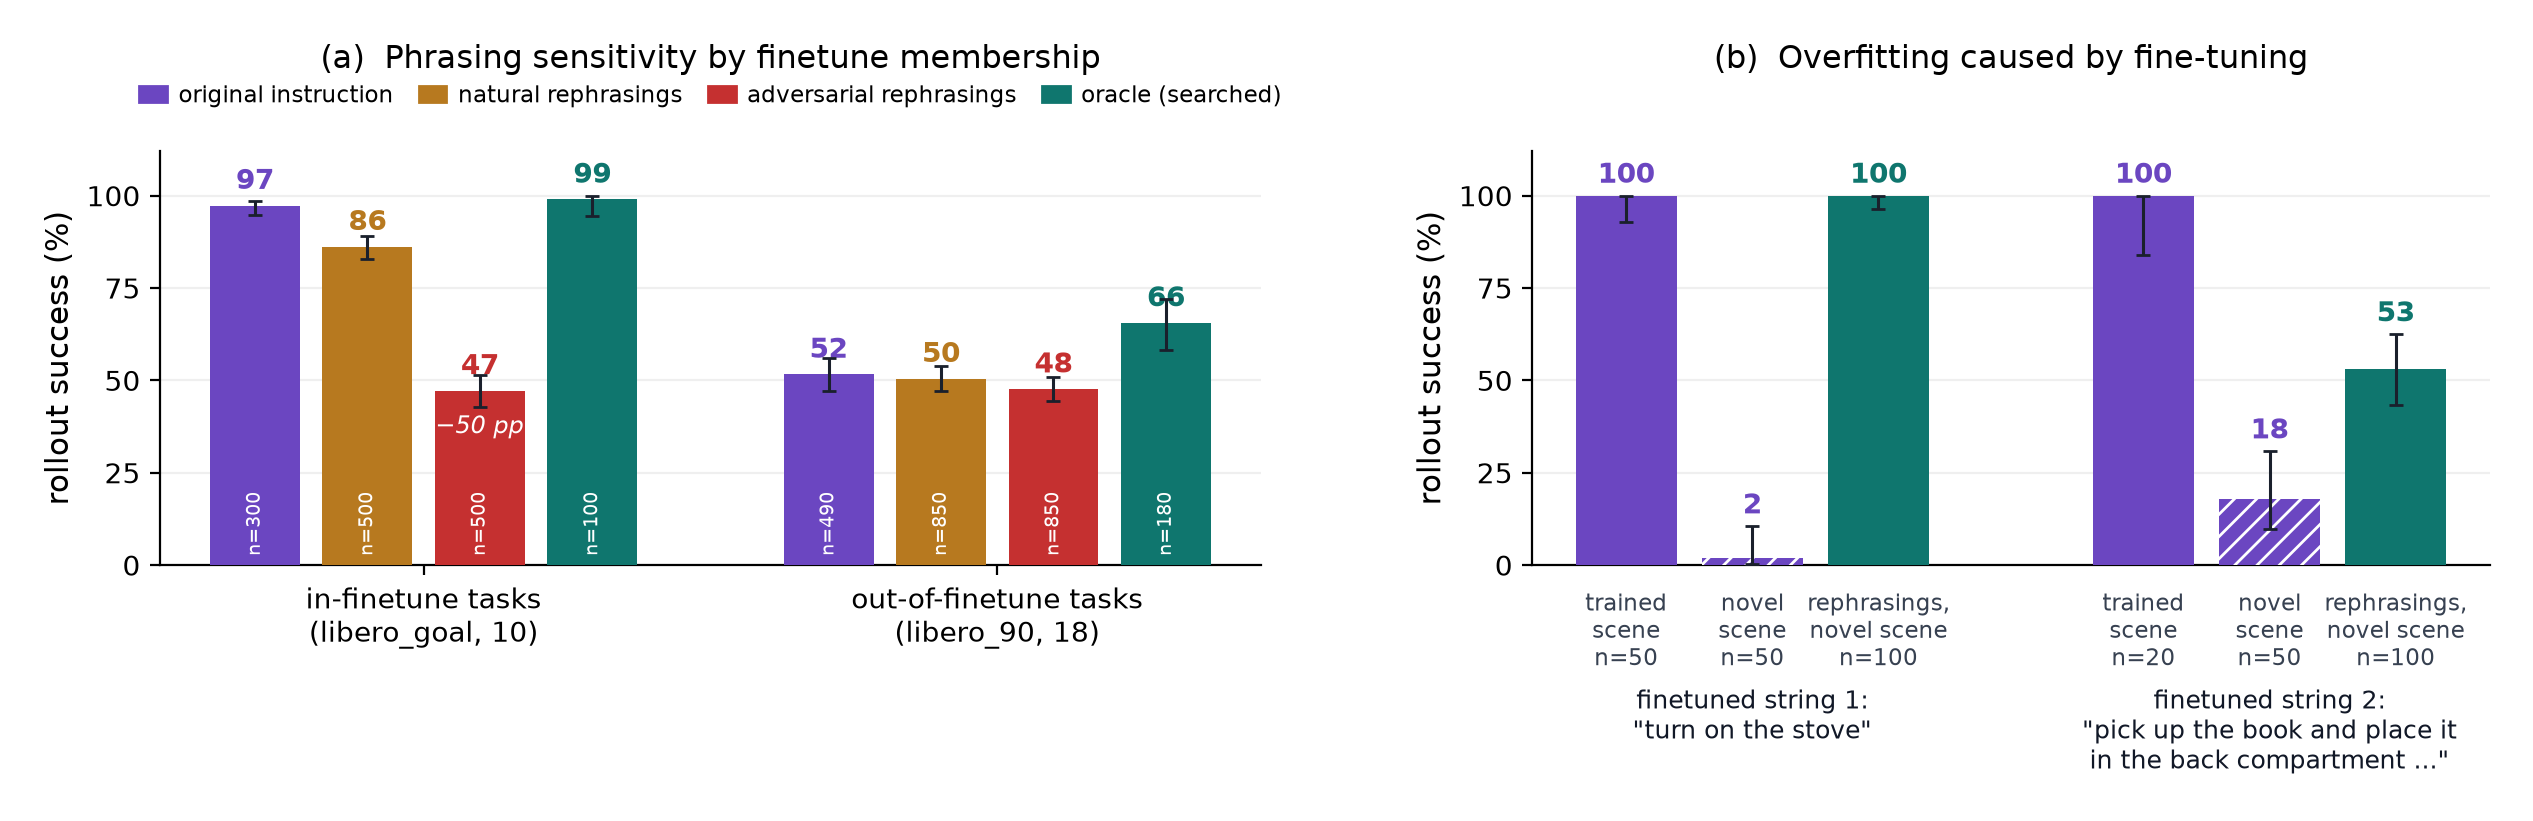
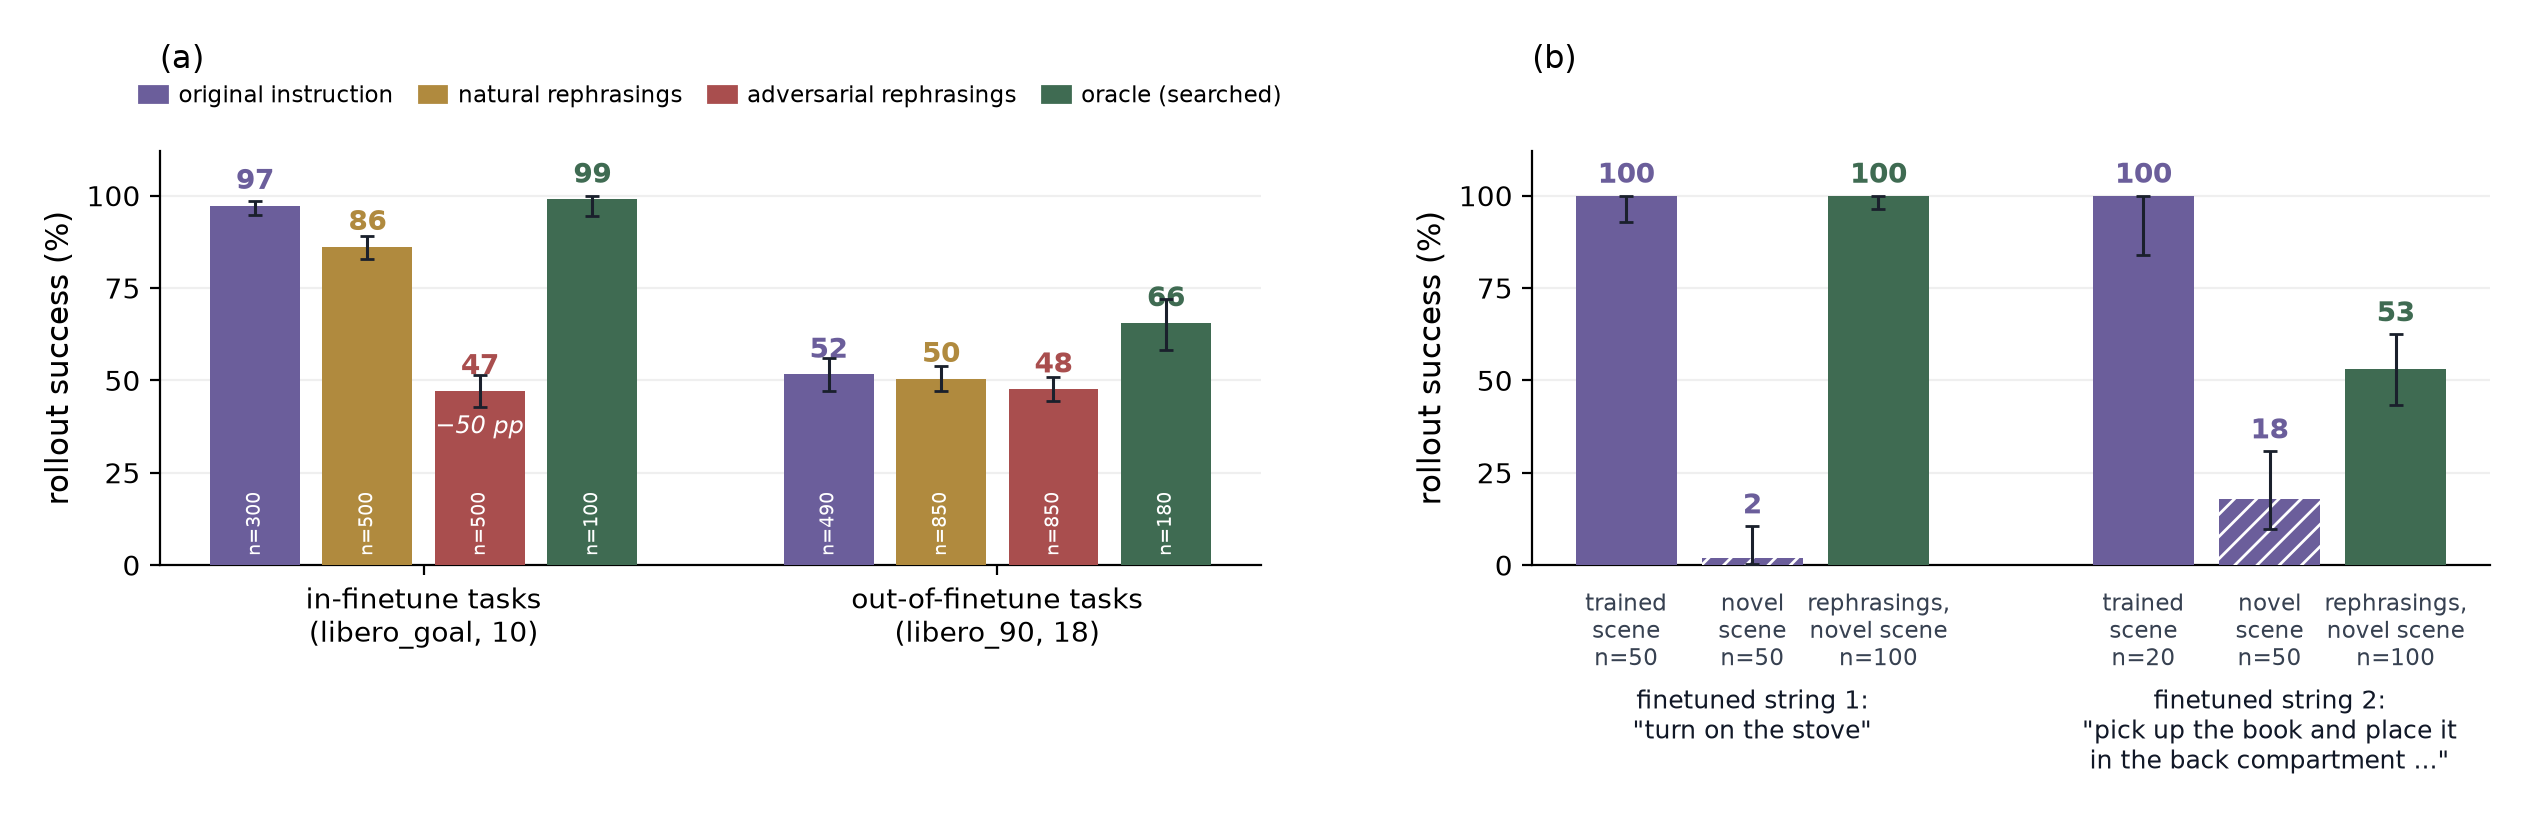
Sensitivity charts rebuilt (pi0 on current sealed data, shared muted palette, no titles) + compact single-row dashboard with inline ID/OOD flanks

diff --git a/scripts/make_rules_dashboard_compact.py b/scripts/make_rules_dashboard_compact.py
@@ -1,0 +1,122 @@
+#!/usr/bin/env python3
+"""results/charts/rules_dashboard_compact.png — single-row dashboard.
+
+One row of three condition panels (Adversarial / Human-Generated Naturals /
+LLM-Generated Naturals). Per applier: no-rules scaffold + the three diet
+cells (mean over the three rulebook draws), each pooled bar flanked by thin
+semi-transparent strata bars — in-distribution (left, 5 tasks) and
+out-of-distribution (right, 7 tasks) — the input-condition-chart idiom.
+The per-draw breakdown moves to an appendix grid. No in-image title.
+"""
+import json
+import pathlib
+
+import matplotlib
+matplotlib.use("Agg")
+import matplotlib.pyplot as plt
+
+R = pathlib.Path(__file__).resolve().parents[1]
+r1 = json.loads((R / "results/analysis/r1_cells.json").read_text())
+rep = json.loads((R / "results/analysis/a36_cells.json").read_text())
+hum = json.loads((R / "results/analysis/a39_human_cells.json").read_text())
+
+APS = ["claude", "gemini", "qwen"]
+DIETS = [("s", "out-of-\nfinetune"), ("b", "both"), ("t", "in-\nfinetune")]
+CONDS = [("adv", "Adversarial"), ("hum", "Human-Generated Naturals"),
+         ("nat", "LLM-Generated Naturals")]
+HUM_BOOK = {("s", 1): "s", ("s", 2): "s2", ("s", 3): "s3",
+            ("b", 1): "b", ("b", 2): "b2", ("b", 3): "b3",
+            ("t", 1): "t", ("t", 2): "t2", ("t", 3): "t3"}
+
+C_BASE, C_RULES = "#D9DEE6", "#3F6B52"
+EDGE, INK, RED = "#6E7B8B", "#2d3748", "#C0504D"
+NO_REPH = {"nat": r1["noreph|nat"]["pooled"], "adv": 24.5,
+           "hum": hum["raw_human"]["pooled"]}
+
+
+def rec(cond, diet, ap, dr):
+    if cond == "hum":
+        return hum.get(f"{HUM_BOOK[(diet, dr)]}|{ap}")
+    if dr == 1:
+        return r1.get(f"r1{diet}|{ap}|{cond}")
+    r = rep.get(f"{diet}{dr}|{ap}|{cond}")
+    return r if (r and r.get("legs") == 12) else None
+
+
+def cell(cond, diet, ap, st="pooled"):
+    vals = [rec(cond, diet, ap, dr)[st] for dr in (1, 2, 3)
+            if rec(cond, diet, ap, dr) and rec(cond, diet, ap, dr).get(st) is not None]
+    return sum(vals) / len(vals) if vals else None
+
+
+def scaffold(cond, ap, st="pooled"):
+    r = hum.get(f"sc|{ap}") if cond == "hum" else r1.get(f"sc|{ap}|{cond}")
+    return r.get(st) if r else None
+
+
+fig, axes = plt.subplots(1, 3, figsize=(16.2, 4.9), sharey=True)
+
+for ax, (cond, cname) in zip(axes, CONDS):
+    x, ticks, tlabels, gticks = 0.0, [], [], []
+    for ap in APS:
+        gxs = []
+        arms = [("sc", "no\nrules", C_BASE)] + \
+               [(d, dl, C_RULES) for d, dl in DIETS]
+        for key, dlabel, col in arms:
+            if key == "sc":
+                pool, iv, oov = (scaffold(cond, ap, s) for s in ("pooled", "iv", "oov"))
+            else:
+                pool, iv, oov = (cell(cond, key, ap, s) for s in ("pooled", "iv", "oov"))
+            if pool is not None:
+                if iv is not None:
+                    ax.bar(x - 0.185, iv, 0.30, color=col, alpha=0.42, zorder=1,
+                           edgecolor="none")
+                    ax.text(x - 0.29, iv + 0.7, f"{iv:.0f}", ha="center",
+                            fontsize=5.0, color="#71808f", zorder=3)
+                if oov is not None:
+                    ax.bar(x + 0.185, oov, 0.30, color=col, alpha=0.42, zorder=1,
+                           edgecolor="none")
+                    ax.text(x + 0.29, oov + 0.7, f"{oov:.0f}", ha="center",
+                            fontsize=5.0, color="#71808f", zorder=3)
+                ax.bar(x, pool, 0.40, color=col, zorder=2,
+                       edgecolor=EDGE if col == C_BASE else "none",
+                       lw=0.7 if col == C_BASE else 0)
+                ax.text(x, pool - 1.1, f"{pool:.1f}", ha="center", va="top",
+                        fontsize=5.9, fontweight="bold",
+                        color="white" if col == C_RULES else INK, zorder=4,
+                        bbox=dict(boxstyle="square,pad=0.09", fc=col, ec="none"))
+            ticks.append(x); tlabels.append(dlabel); gxs.append(x); x += 0.86
+        gticks.append(sum(gxs) / len(gxs))
+        ax.axvline(x - 0.33, color="#e2e8f0", lw=1.0, zorder=0)
+        x += 0.46
+    ax.axhline(NO_REPH[cond], color=RED, lw=1.1, ls=(0, (4, 3)), zorder=1)
+    ax.text(1.005, NO_REPH[cond], f"{NO_REPH[cond]:.1f}", fontsize=6.4,
+            color=RED, ha="left", va="center", transform=ax.get_yaxis_transform())
+    ax.set_xticks(ticks)
+    ax.set_xticklabels(tlabels, fontsize=5.4, color="#4a5568")
+    for gx, ap in zip(gticks, ["Claude", "Gemini", "Qwen"]):
+        ax.text(gx, 6.0, ap, ha="center", fontsize=10, fontweight="bold",
+                clip_on=False)
+    ax.tick_params(axis="x", length=0)
+    ax.set_xlim(-0.62, x - 0.62)
+    ax.set_ylim(12, 47)
+    ax.grid(axis="y", alpha=0.16)
+    ax.set_title(cname, fontsize=12.5, pad=6)
+    ax.spines[["top", "right"]].set_visible(False)
+
+axes[0].set_ylabel("success %", fontsize=10.5)
+
+handles = [plt.Rectangle((0, 0), 1, 1, fc=C_BASE, ec=EDGE),
+           plt.Rectangle((0, 0), 1, 1, fc=C_RULES, ec="none"),
+           plt.Rectangle((0, 0), 1, 1, fc="#7A8698", alpha=0.42),
+           plt.Line2D([0], [0], color=RED, lw=1.1, ls=(0, (4, 3)))]
+fig.legend(handles, ["no-rules rephraser (scaffold)",
+                     "rulebook cell (mean over three draws)",
+                     "flanks: in-distribution (left, 5) / out-of-distribution (right, 7)",
+                     "no rephraser"],
+           fontsize=8.2, ncol=4, loc="lower center", bbox_to_anchor=(0.5, 0.0),
+           frameon=False)
+fig.tight_layout(rect=(0, 0.06, 1, 1.0))
+out = R / "results/charts/rules_dashboard_compact.png"
+fig.savefig(out, dpi=170, bbox_inches="tight", pad_inches=0.18)
+print("chart ->", out)

diff --git a/scripts/make_pi0_conditions.py b/scripts/make_pi0_conditions.py
@@ -1,51 +1,69 @@
 #!/usr/bin/env python3
-"""pi0 (rephrase-augmented INTACT) input-condition chart: oracle / original /
-adversarial / natural-rephrasing. POOLED is the headline bar (solid, front);
-the in-vocab / out-of-vocabulary strata sit BEHIND it, thinner and
-semi-transparent, peeking out either side. All bars layout-matched to 0-11."""
-import matplotlib
+"""pi0 (rephrase-augmented INTACT) input-condition chart, CURRENT sealed data:
+oracle / canonical / VLM-generated naturals / adversarial on the 12 sealed
+tasks x 24 pinned layouts. Pooled bar solid in front (white value, paper
+idiom); in-distribution (5 tasks) / out-of-distribution (7) strata behind,
+thinner and semi-transparent. No in-image title: explanation lives in the tex
+caption. Palette shared with make_paper_fourtier.py (condition -> hue).
 
+Provenance (computed 2026-09-13, base-weighted):
+  oracle      48.2 / 50.3 / 46.8   results/sealed/oracle_confirmed_x12.parquet (24x12)
+  canonical   36.1 / 48.3 / 27.3   anchors_x12 originals (24x12)
+  naturals    26.0 / 38.1 / 17.0   r1_cells.json noreph|nat (186 phrases, 24x1)
+  adversarial 24.5 / 25.2 / 23.9   a29pass legs + anchors passthrough (72 attacks)
+"""
+import json
+import pathlib
+
+import matplotlib
 matplotlib.use("Agg")
 import matplotlib.pyplot as plt
 
-# (pooled, IV, OOV) — layouts 0-11, from raw parquets
-DATA = [
-    ("oracle*", (46.88, 48.3, 45.8)),
-    ("original\n(canonical)", (34.38, 44.6, 27.1)),
-    ("adversarial\n(ERT passthrough)", (26.85, 31.5, 23.5)),
-    ("natural human\nrephrases (K=16)", (26.30, 38.6, 17.5)),
-]
-C_POOL, C_IV, C_OOV = "#a3bffa", "#b2f5ea", "#fed7aa"
+R = pathlib.Path(__file__).resolve().parents[1]
+nr = json.loads((R / "results/analysis/r1_cells.json").read_text())["noreph|nat"]
 
-fig, ax = plt.subplots(figsize=(9.5, 5.0))
-x = 0.0
-ticks, labels = [], []
-for name, (pool, iv, oov) in DATA:
-    # strata behind: thinner, offset, semi-transparent
-    ax.bar(x - 0.20, iv, 0.36, color=C_IV, alpha=0.55, zorder=1, edgecolor="none")
-    ax.bar(x + 0.20, oov, 0.36, color=C_OOV, alpha=0.55, zorder=1, edgecolor="none")
-    ax.text(x - 0.33, iv + 0.5, f"{iv:.0f}", ha="center", fontsize=7, color="#4a5568", zorder=3)
-    ax.text(x + 0.33, oov + 0.5, f"{oov:.0f}", ha="center", fontsize=7, color="#4a5568", zorder=3)
-    # pooled in front: wide, solid
-    ax.bar(x, pool, 0.42, color=C_POOL, zorder=2, edgecolor="#4a5568", lw=0.9)
-    ax.text(x, pool + 0.7, f"{pool:.1f}", ha="center", fontsize=10, fontweight="bold", zorder=3)
-    ticks.append(x)
-    labels.append(name)
-    x += 1.35
-handles = [plt.Rectangle((0, 0), 1, 1, color=C_POOL),
-           plt.Rectangle((0, 0), 1, 1, color=C_IV, alpha=0.55),
-           plt.Rectangle((0, 0), 1, 1, color=C_OOV, alpha=0.55)]
-ax.legend(handles, ["pooled (5 + 7)", "in-distribution (5)", "out-of-distribution (7)"],
-          fontsize=9, loc="upper right")
+C_ORACLE, C_CANON = "#3F6B52", "#6B5E9B"
+C_NAT, C_ADV = "#B08A3E", "#A94E4E"
+INK = "#2d3748"
+
+DATA = [
+    ("oracle\n(searched)",        (48.23, 50.28, 46.78), C_ORACLE),
+    ("canonical\ninstruction",    (36.08, 48.33, 27.33), C_CANON),
+    ("VLM-generated\nnaturals",   (nr["pooled"], nr["iv"], nr["oov"]), C_NAT),
+    ("adversarial",               (24.46, 25.17, 23.94), C_ADV),
+]
+
+fig, ax = plt.subplots(figsize=(6.8, 4.1))
+x, ticks, labels = 0.0, [], []
+for name, (pool, iv, oov), col in DATA:
+    ax.bar(x - 0.20, iv, 0.34, color=col, alpha=0.40, zorder=1, edgecolor="none")
+    ax.bar(x + 0.20, oov, 0.34, color=col, alpha=0.40, zorder=1, edgecolor="none")
+    ax.text(x - 0.32, iv + 0.7, f"{iv:.0f}", ha="center", fontsize=7,
+            color="#4a5568", zorder=3)
+    ax.text(x + 0.32, oov + 0.7, f"{oov:.0f}", ha="center", fontsize=7,
+            color="#4a5568", zorder=3)
+    ax.bar(x, pool, 0.44, color=col, zorder=2, edgecolor="none")
+    ax.text(x, pool - 1.2, f"{pool:.1f}", ha="center", va="top", fontsize=9.5,
+            fontweight="bold", color="white", zorder=4,
+            bbox=dict(boxstyle="square,pad=0.12", fc=col, ec="none"))
+    ticks.append(x); labels.append(name)
+    x += 1.05
+
 ax.set_xticks(ticks)
-ax.set_xticklabels(labels, fontsize=9.5)
+ax.set_xticklabels(labels, fontsize=9)
+ax.set_ylabel("success % (12 sealed tasks, 24 layouts)", fontsize=9.5)
+ax.set_ylim(0, 55)
+ax.grid(axis="y", alpha=0.18, zorder=0)
 ax.tick_params(axis="x", length=0)
-ax.set_ylabel("success % (layouts 0-11)")
-ax.set_ylim(0, 56)
-ax.grid(axis="y", alpha=0.25, zorder=0)
-ax.set_title(r"$\pi_0$ (bridge finetune + rephrase augmentation) by input condition — layout-matched (0-11)"
-             "\n*oracle phrases selected on layouts 0-17; natural = 16 rephrases/task x 1 rep, others x 12 reps",
-             fontsize=9.5)
+ax.spines[["top", "right"]].set_visible(False)
+
+handles = [plt.Rectangle((0, 0), 1, 1, fc="#7A8698"),
+           plt.Rectangle((0, 0), 1, 1, fc="#7A8698", alpha=0.40)]
+ax.legend(handles, ["pooled (12 tasks)",
+                    "flanks: in-distribution (left, 5) / out-of-distribution (right, 7)"],
+          fontsize=7.8, loc="upper right", frameon=False)
+
 fig.tight_layout()
-fig.savefig("results/charts/pi0_conditions.png", dpi=140, bbox_inches="tight", pad_inches=0.2)
-print("chart -> results/charts/pi0_conditions.png")
+out = R / "results/charts/pi0_conditions.png"
+fig.savefig(out, dpi=200, bbox_inches="tight", pad_inches=0.15)
+print("chart ->", out)

diff --git a/scripts/make_paper_fourtier.py b/scripts/make_paper_fourtier.py
@@ -30,8 +30,8 @@ for f in glob.glob(str(ROOT / "results/analysis/fourtier_live/fourtier_*.jsonl")
 df = pd.DataFrame(rows).drop_duplicates(subset=["suite", "task_id", "phrase", "init"], keep="last")
 S = json.load(open(ROOT / "results/analysis/fourtier_summary.json"))
 
-C = {"original": "#6b46c1", "natural": "#b7791f", "adversarial": "#c53030",
-     "oracle": "#0f766e", "reph": "#0f766e"}
+C = {"original": "#6B5E9B", "natural": "#B08A3E", "adversarial": "#A94E4E",
+     "oracle": "#3F6B52", "reph": "#3F6B52"}
 
 
 def wl(k, n, z=1.96):
@@ -87,7 +87,7 @@ a.legend(handles=[plt.Rectangle((0, 0), 1, 1, color=c) for c in tier_colors],
          labels=[t.replace("\n", " ") for t in tier_labels], fontsize=8.3,
          loc="lower center", bbox_to_anchor=(0.5, 1.055), frameon=False, ncol=4,
          columnspacing=1.1, handlelength=1.2, handletextpad=0.5)
-a.set_title("(a)  Phrasing sensitivity by finetune membership", fontsize=11.5, pad=30)
+a.set_title("(a)", loc="left", fontsize=11.5, pad=30)
 a.text(2.0, 40.5, "$-$50 pp", fontsize=8.6, color="white",
        fontstyle="italic", ha="center", va="top", zorder=5)
 
@@ -137,7 +137,7 @@ b.set_ylabel("rollout success (%)", fontsize=11)
 b.spines["top"].set_visible(False)
 b.spines["right"].set_visible(False)
 b.grid(alpha=0.2, axis="y", zorder=0)
-b.set_title("(b)  Overfitting caused by fine-tuning", fontsize=11.5, pad=30)
+b.set_title("(b)", loc="left", fontsize=11.5, pad=30)
 
 fig.tight_layout()
 out = ROOT / "results/charts/paper_fourtier.png"
